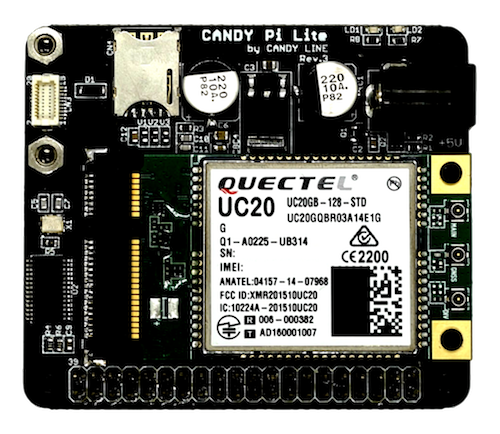
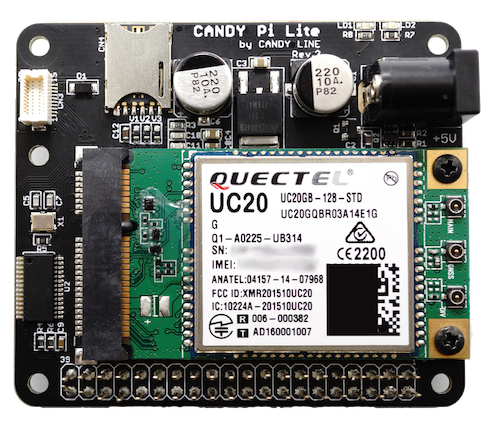
Update photos and appearance page

diff --git a/hardware/appearance.md b/hardware/appearance.md
@@ -4,26 +4,46 @@
 
 ** 👉　製品の外観や仕様は、製品改善により予告なく変更されることがあります。 **
 
-## 3Gモデル
+## CANDY Pi Lite 3Gモデル
 
 ![CANDY Pi Lite 3G](/assets/CANDY_Pi_Lite_3G_w500.png)
 
-## LTEモデル
+## CANDY Pi Lite LTE(4G)モデル
 
 ![CANDY Pi Lite LTE](/assets/CANDY_Pi_Lite_LTE_w500.png)
 
+## CANDY Pi Lite +D（NTTドコモ向け）モデル
+
+![CANDY Pi Lite+ D](/assets/PlusD_w500.png)
+
+## CANDY Pi Lite +S（ソフトバンク向け）モデル
+
+![CANDY Pi Lite+ S](/assets/PlusS_w500.png)
+
 # 本体基板の見分け方
 
-## 3Gモデル
+## CANDY Pi Lite 3Gモデル
 
 通信モジュール機種名に「UC20」の文字列があります。この場合は、3Gモデルとなります。
 
 ![CANDY Pi Lite 3G](/assets/CANDY_Pi_Lite_3G_appearance.png)
 
-## LTEモデル
+## CANDY Pi Lite LTE(4G)モデル
 
-通信モジュール機種名に「EC21」の文字列があります。この場合は、LTEモデルとなります。写真では「EC21-J」とありますが、「-J」の部分は日本国内の電波帯域で利用可能であることを示しています。
+通信モジュール機種名に「EC21-J MINIPCIE」の文字列があります。この場合は、LTEモデルとなります。写真では「EC21-J」とありますが、「-J」の部分は日本国内の電波帯域で利用可能であることを示しています。
 
-また、出荷時期によっては「EC21-J MINIPCIE」と表示されている場合があります。この場合もLTEモデルとなります。
+また、出荷時期によっては「EC21-J」と表示されている場合があります。この場合もLTEモデルとなります。
 
 ![CANDY Pi Lite LTE](/assets/CANDY_Pi_Lite_LTE_appearance.png)
+
+## CANDY Pi Lite +D（NTTドコモ向け）モデル
+
+通信モジュール機種名に「EC25」の文字列があり、さらに右下に赤い円形のステッカーが貼り付けられています。
+
+![CANDY Pi Lite+ D](/assets/PlusD_appearance.png)
+
+## CANDY Pi Lite +S（ソフトバンク向け）モデル
+
+通信モジュール機種名に「EC25」の文字列があり、さらに右下に銀色・円形のステッカーが貼り付けられています。
+
+![CANDY Pi Lite+ S](/assets/PlusS_appearance.png)
